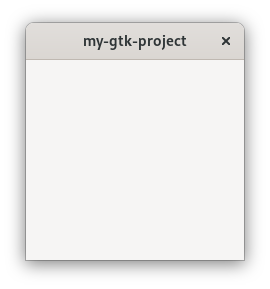
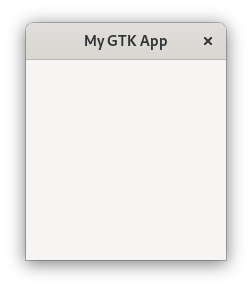
Introduce the builder pattern

diff --git a/book/listings/gobject_memory_management_4/src/main.rs b/book/listings/gobject_memory_management_4/src/main.rs
@@ -2,7 +2,7 @@ use std::{cell::RefCell, rc::Rc};
 
 use glib::clone;
 use gtk::prelude::*;
-use gtk::{self, ApplicationWindow, Box, Button, Orientation};
+use gtk::{self, ApplicationWindowBuilder, ButtonBuilder, Orientation};
 use gtk::{glib, Application};
 
 fn main() {
@@ -20,11 +20,26 @@ fn main() {
 // When the application is launched…
 fn on_activate(application: &Application) {
     // … create a new window …
-    let window = ApplicationWindow::new(application);
+    let window = ApplicationWindowBuilder::new()
+        .application(application)
+        .title("My GTK App")
+        .build();
 
     // Create two buttons
-    let button_increase = Button::with_label("Increase");
-    let button_decrease = Button::with_label("Decrease");
+    let button_increase = ButtonBuilder::new()
+        .label("Increase")
+        .margin_top(12)
+        .margin_bottom(12)
+        .margin_start(12)
+        .margin_end(12)
+        .build();
+    let button_decrease = ButtonBuilder::new()
+        .label("Decrease")
+        .margin_top(12)
+        .margin_bottom(12)
+        .margin_start(12)
+        .margin_end(12)
+        .build();
 
     // Reference-counted object with inner mutability
     let number = Rc::new(RefCell::new(0));
@@ -45,7 +60,7 @@ fn on_activate(application: &Application) {
     // ANCHOR_END: callback
 
     // Add buttons
-    let gtk_box = Box::new(Orientation::Vertical, 0);
+    let gtk_box = gtk::Box::new(Orientation::Vertical, 0);
     window.set_child(Some(&gtk_box));
     gtk_box.append(&button_increase);
     gtk_box.append(&button_decrease);

diff --git a/book/listings/gobject_memory_management_2/src/main.rs b/book/listings/gobject_memory_management_2/src/main.rs
@@ -1,6 +1,6 @@
 use glib::clone;
 use gtk::prelude::*;
-use gtk::{self, ApplicationWindow, Button, Orientation};
+use gtk::{self, ApplicationWindowBuilder, ButtonBuilder, Orientation};
 use gtk::{glib, Application};
 use std::{cell::RefCell, rc::Rc};
 fn main() {
@@ -17,10 +17,27 @@ fn main() {
 // When the application is launched…
 fn on_activate(application: &Application) {
     // … create a new window …
-    let window = ApplicationWindow::new(application);
+    let window = ApplicationWindowBuilder::new()
+        .application(application)
+        .title("My GTK App")
+        .build();
+
     // Create two buttons
-    let button_increase = Button::with_label("Increase");
-    let button_decrease = Button::with_label("Decrease");
+    let button_increase = ButtonBuilder::new()
+        .label("Increase")
+        .margin_top(12)
+        .margin_bottom(12)
+        .margin_start(12)
+        .margin_end(12)
+        .build();
+    let button_decrease = ButtonBuilder::new()
+        .label("Decrease")
+        .margin_top(12)
+        .margin_bottom(12)
+        .margin_start(12)
+        .margin_end(12)
+        .build();
+
     // Reference-counted object with inner mutability
     let number = Rc::new(RefCell::new(0));
     // Connect callbacks

diff --git a/book/listings/gobject_memory_management_1/src/main.rs b/book/listings/gobject_memory_management_1/src/main.rs
@@ -1,6 +1,6 @@
 use gtk::prelude::*;
 use gtk::Application;
-use gtk::{self, ApplicationWindow, Button, Orientation};
+use gtk::{self, ApplicationWindowBuilder, ButtonBuilder, Orientation};
 use std::{cell::RefCell, rc::Rc};
 fn main() {
     // Create a new application
@@ -16,11 +16,26 @@ fn main() {
 // When the application is launched…
 fn on_activate(application: &Application) {
     // … create a new window
-    let window = ApplicationWindow::new(application);
+    let window = ApplicationWindowBuilder::new()
+        .application(application)
+        .title("My GTK App")
+        .build();
 
     // Create two buttons
-    let button_increase = Button::with_label("Increase");
-    let button_decrease = Button::with_label("Decrease");
+    let button_increase = ButtonBuilder::new()
+        .label("Increase")
+        .margin_top(12)
+        .margin_bottom(12)
+        .margin_start(12)
+        .margin_end(12)
+        .build();
+    let button_decrease = ButtonBuilder::new()
+        .label("Decrease")
+        .margin_top(12)
+        .margin_bottom(12)
+        .margin_start(12)
+        .margin_end(12)
+        .build();
 
     // ANCHOR: callback
     // Reference-counted object with inner-mutability

diff --git a/book/listings/widgets_2/src/main.rs b/book/listings/widgets_2/src/main.rs
@@ -1,7 +1,5 @@
-// ANCHOR: prelude
 use gtk::prelude::*;
-// ANCHOR_END: prelude
-use gtk::{Application, ApplicationWindow, Button};
+use gtk::{Application, ApplicationWindowBuilder, ButtonBuilder};
 
 fn main() {
     // Create a new application
@@ -18,17 +16,28 @@ fn main() {
 // When the application is launched…
 fn on_activate(application: &Application) {
     // … create a new window …
-    let window = ApplicationWindow::new(application);
+    let window = ApplicationWindowBuilder::new()
+        .application(application)
+        .title("My GTK App")
+        .build();
+
     // ANCHOR: button
     // Create a button
-    let button = Button::with_label("Run stuff");
+    let button = ButtonBuilder::new()
+        .label("Run stuff")
+        .margin_top(12)
+        .margin_bottom(12)
+        .margin_start(12)
+        .margin_end(12)
+        .build();
+    // ANCHOR_END: button
 
     // Connect callback
     button.connect_clicked(move |button| {
         // Set the label to "Hello World!" after the button has been clicked on
         button.set_label("Hello World!");
     });
-    // ANCHOR_END: button
+
     // Add button
     window.set_child(Some(&button));
     window.present();

diff --git a/book/listings/gobject_memory_management_3/src/main.rs b/book/listings/gobject_memory_management_3/src/main.rs
@@ -2,16 +2,32 @@ use std::{cell::RefCell, rc::Rc};
 
 use glib::clone;
 use gtk::prelude::*;
-use gtk::{self, ApplicationWindow, Button, Orientation};
+use gtk::{self, ApplicationWindowBuilder, ButtonBuilder, Orientation};
 use gtk::{glib, Application};
 
 // When the application is launched…
 fn on_activate(application: &Application) {
     // … create a new window …
-    let window = ApplicationWindow::new(application);
+    let window = ApplicationWindowBuilder::new()
+        .application(application)
+        .title("My GTK App")
+        .build();
 
-    let button_increase = Button::with_label("Increase");
-    let button_decrease = Button::with_label("Decrease");
+    // Create two buttons
+    let button_increase = ButtonBuilder::new()
+        .label("Increase")
+        .margin_top(12)
+        .margin_bottom(12)
+        .margin_start(12)
+        .margin_end(12)
+        .build();
+    let button_decrease = ButtonBuilder::new()
+        .label("Decrease")
+        .margin_top(12)
+        .margin_bottom(12)
+        .margin_start(12)
+        .margin_end(12)
+        .build();
 
     let number = Rc::new(RefCell::new(0));
 

diff --git a/book/listings/widgets_1/src/main.rs b/book/listings/widgets_1/src/main.rs
@@ -1,5 +1,7 @@
+// ANCHOR: prelude
 use gtk::prelude::*;
-use gtk::{Application, ApplicationWindow};
+// ANCHOR_END: prelude
+use gtk::{Application, ApplicationWindow, Button};
 
 fn main() {
     // Create a new application
@@ -21,5 +23,23 @@ fn on_activate(application: &Application) {
     // Set the window title
     window.set_title(Some("My GTK App"));
 
+    // ANCHOR: button
+    // Create a button
+    let button = Button::with_label("Run stuff");
+
+    // Set the button margins
+    button.set_margin_top(18);
+    button.set_margin_bottom(18);
+    button.set_margin_start(18);
+    button.set_margin_end(18);
+
+    // Connect callback
+    button.connect_clicked(move |button| {
+        // Set the label to "Hello World!" after the button has been clicked on
+        button.set_label("Hello World!");
+    });
+    // ANCHOR_END: button
+    // Add button
+    window.set_child(Some(&button));
     window.present();
 }

diff --git a/book/listings/main_event_loop_1/src/main.rs b/book/listings/main_event_loop_1/src/main.rs
@@ -1,5 +1,5 @@
 use gtk::prelude::*;
-use gtk::{self, Application, ApplicationWindow, Button};
+use gtk::{self, Application, ApplicationWindowBuilder, ButtonBuilder};
 
 fn main() {
     // Create a new application
@@ -16,10 +16,19 @@ fn main() {
 // When the application is launched…
 fn on_activate(application: &Application) {
     // … create a new window …
-    let window = ApplicationWindow::new(application);
+    let window = ApplicationWindowBuilder::new()
+        .application(application)
+        .title("My GTK App")
+        .build();
 
     // Create a button
-    let button = Button::with_label("Run stuff");
+    let button = ButtonBuilder::new()
+        .label("Run stuff")
+        .margin_top(12)
+        .margin_bottom(12)
+        .margin_start(12)
+        .margin_end(12)
+        .build();
 
     // Connect callback
     button.connect_clicked(move |_| {

diff --git a/book/listings/main_event_loop_2/src/main.rs b/book/listings/main_event_loop_2/src/main.rs
@@ -1,5 +1,5 @@
 use gtk::prelude::*;
-use gtk::{self, Application, ApplicationWindow, Button};
+use gtk::{self, Application, ApplicationWindowBuilder, ButtonBuilder};
 
 fn main() {
     // Create a new application
@@ -16,10 +16,19 @@ fn main() {
 // When the application is launched…
 fn on_activate(application: &Application) {
     // … create a new window …
-    let window = ApplicationWindow::new(application);
+    let window = ApplicationWindowBuilder::new()
+        .application(application)
+        .title("My GTK App")
+        .build();
 
     // Create a button
-    let button = Button::with_label("Run stuff");
+    let button = ButtonBuilder::new()
+        .label("Run stuff")
+        .margin_top(12)
+        .margin_bottom(12)
+        .margin_start(12)
+        .margin_end(12)
+        .build();
 
     // ANCHOR: callback
     // Connect callback

diff --git a/book/listings/gobject_subclassing_1/src/main.rs b/book/listings/gobject_subclassing_1/src/main.rs
@@ -1,6 +1,6 @@
 use gtk::glib;
 use gtk::prelude::*;
-use gtk::{Application, ApplicationWindow};
+use gtk::{Application, ApplicationWindowBuilder};
 
 // ANCHOR: impl
 // Implementation of our custom GObject
@@ -65,10 +65,17 @@ fn main() {
 // When the application is launched…
 fn on_activate(application: &Application) {
     // … create a new window …
-    let window = ApplicationWindow::new(application);
+    let window = ApplicationWindowBuilder::new()
+        .application(application)
+        .title("My GTK App")
+        .build();
 
     // Create a button
     let button = CustomButton::with_label("Run stuff");
+    button.set_margin_top(12);
+    button.set_margin_bottom(12);
+    button.set_margin_start(12);
+    button.set_margin_end(12);
 
     // Connect callback
     button.connect_clicked(move |button| {

diff --git a/book/listings/gobject_subclassing_2/src/main.rs b/book/listings/gobject_subclassing_2/src/main.rs
@@ -1,6 +1,6 @@
 use gtk::glib;
 use gtk::prelude::*;
-use gtk::{Application, ApplicationWindow};
+use gtk::{Application, ApplicationWindowBuilder};
 use std::cell::RefCell;
 
 // ANCHOR: impl
@@ -76,10 +76,17 @@ fn main() {
 // When the application is launched…
 fn on_activate(application: &Application) {
     // … create a new window …
-    let window = ApplicationWindow::new(application);
+    let window = ApplicationWindowBuilder::new()
+        .application(application)
+        .title("My GTK App")
+        .build();
 
     // Create a button
     let button = CustomButton::new();
+    button.set_margin_top(12);
+    button.set_margin_bottom(12);
+    button.set_margin_start(12);
+    button.set_margin_end(12);
 
     // Add button
     window.set_child(Some(&button));

diff --git a/book/listings/hello_world_3/src/main.rs b/book/listings/hello_world_3/src/main.rs
@@ -18,8 +18,17 @@ fn on_activate(application: &Application) {
     // … create a new window …
     let window = ApplicationWindow::new(application);
 
+    // Set the window title
+    window.set_title(Some("My GTK App"));
+
     // Create a button
     let button = Button::with_label("Run stuff");
+
+    // Set the button margins
+    button.set_margin_top(12);
+    button.set_margin_bottom(12);
+    button.set_margin_start(12);
+    button.set_margin_end(12);
 
     // Connect callback
     button.connect_clicked(move |button| {

diff --git a/book/src/widgets.md b/book/src/widgets.md
@@ -32,14 +32,26 @@ And indeed, the trait `ButtonExt` includes the method [`connect_clicked`](https:
 <span class="filename">Filename: src/main.rs</span>
 
 ```rust,no_run
-{{#rustdoc_include ../listings/widgets/src/main.rs:button}}
+{{#rustdoc_include ../listings/widgets_1/src/main.rs:button}}
 ```
 
 Please note that Rust requires bringing traits into scope, before using one of its methods.
 In our example we did that by adding the following line:
 
-```rust ,no_run
-{{#rustdoc_include ../listings/widgets/src/main.rs:prelude}}
+<span class="filename">Filename: src/main.rs</span>
+
+```rust,no_run
+{{#rustdoc_include ../listings/widgets_1/src/main.rs:prelude}}
 ```
 With it, we import all necessary traits for dealing with widgets.
 You probably want to bring the prelude into scope in most of your source files.
+
+This is also a good moment to mention that all `gtk-rs` widgets support [the builder pattern](https://doc.rust-lang.org/1.0.0/style/ownership/builders.html).
+This is especially nice for creating widgets where multiple widget characteristics are already known during its creation.
+We can make our button creation neater, by replacing `gtk::Button` with [`gtk::ButtonBuilder`](https://gtk-rs.org/gtk4-rs/gtk4/struct.ButtonBuilder.html).
+
+<span class="filename">Filename: src/main.rs</span>
+
+```rust,no_run
+{{#rustdoc_include ../listings/widgets_2/src/main.rs:button}}
+```
